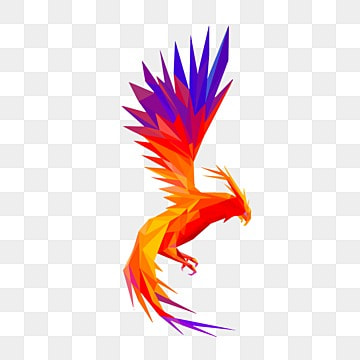
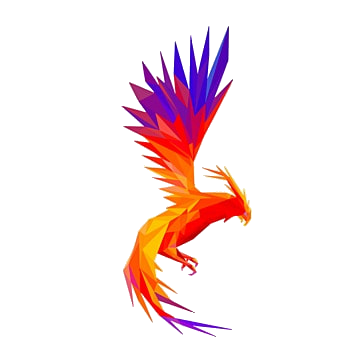
Fix phoenix transparency and shimmer mask
- Strip baked-in checkerboard transparency-preview from phoenix.png
  (the uploaded file had the gray/white checker pattern as opaque pixels
  rather than actual alpha). Cleared low-saturation light pixels, leaving
  only the saturated phoenix colors.
- Mask the shimmer-sweep overlay to the phoenix silhouette so the
  highlight band only appears on the bird, not as a rectangle behind it.
- Add reveal failsafe so feature cards become visible even when
  IntersectionObserver doesn't fire (headless rendering, reduced motion).

https://claude.ai/code/session_01MHtvbwPzHoa7zvXXbrHzoF

diff --git a/landing.html b/landing.html
@@ -276,8 +276,8 @@
       mix-blend-mode: overlay;
       opacity: 0;
       animation: shimmerSweep 5s ease-in-out infinite;
-      -webkit-mask-image: var(--phoenix-mask, none);
-              mask-image: var(--phoenix-mask, none);
+      -webkit-mask: url('assets/phoenix.png') center / contain no-repeat;
+              mask: url('assets/phoenix.png') center / contain no-repeat;
     }
     @keyframes shimmerSweep {
       0%   { background-position: 100% 0; opacity: 0; }
@@ -1001,6 +1001,17 @@
     }, { threshold: 0.15 });
 
     document.querySelectorAll('.reveal').forEach(el => io.observe(el));
+
+    // Failsafe: ensure reveal items become visible even if IO never fires
+    // (e.g. headless rendering, reduced-motion users, or in-view at load)
+    window.addEventListener('load', () => {
+      setTimeout(() => {
+        document.querySelectorAll('.reveal:not(.in)').forEach(el => {
+          const r = el.getBoundingClientRect();
+          if (r.top < window.innerHeight) el.classList.add('in');
+        });
+      }, 400);
+    });
 
     // — Parallax phoenix on mouse move (subtle) —
     const phoenix = document.querySelector('.phoenix-wrap');
